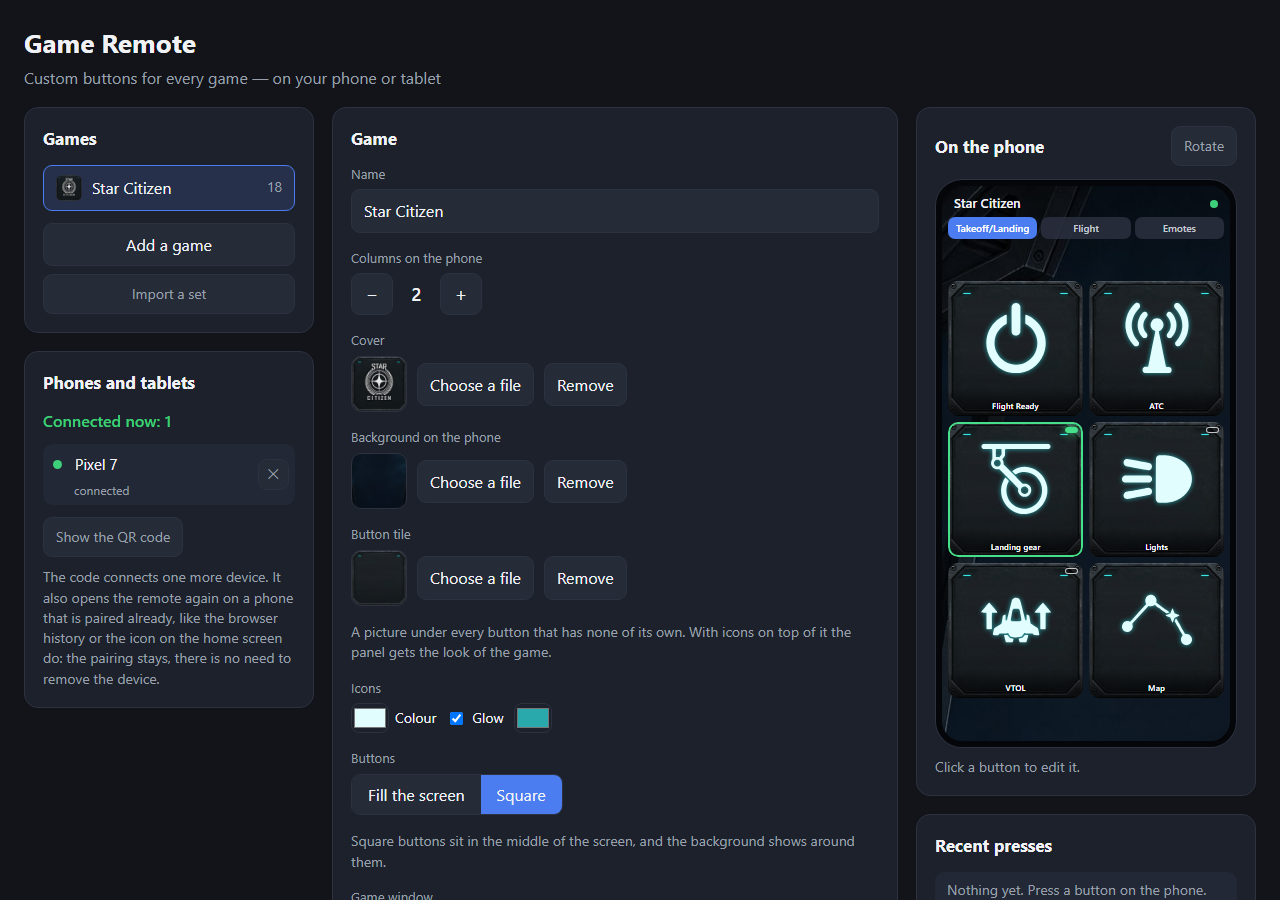
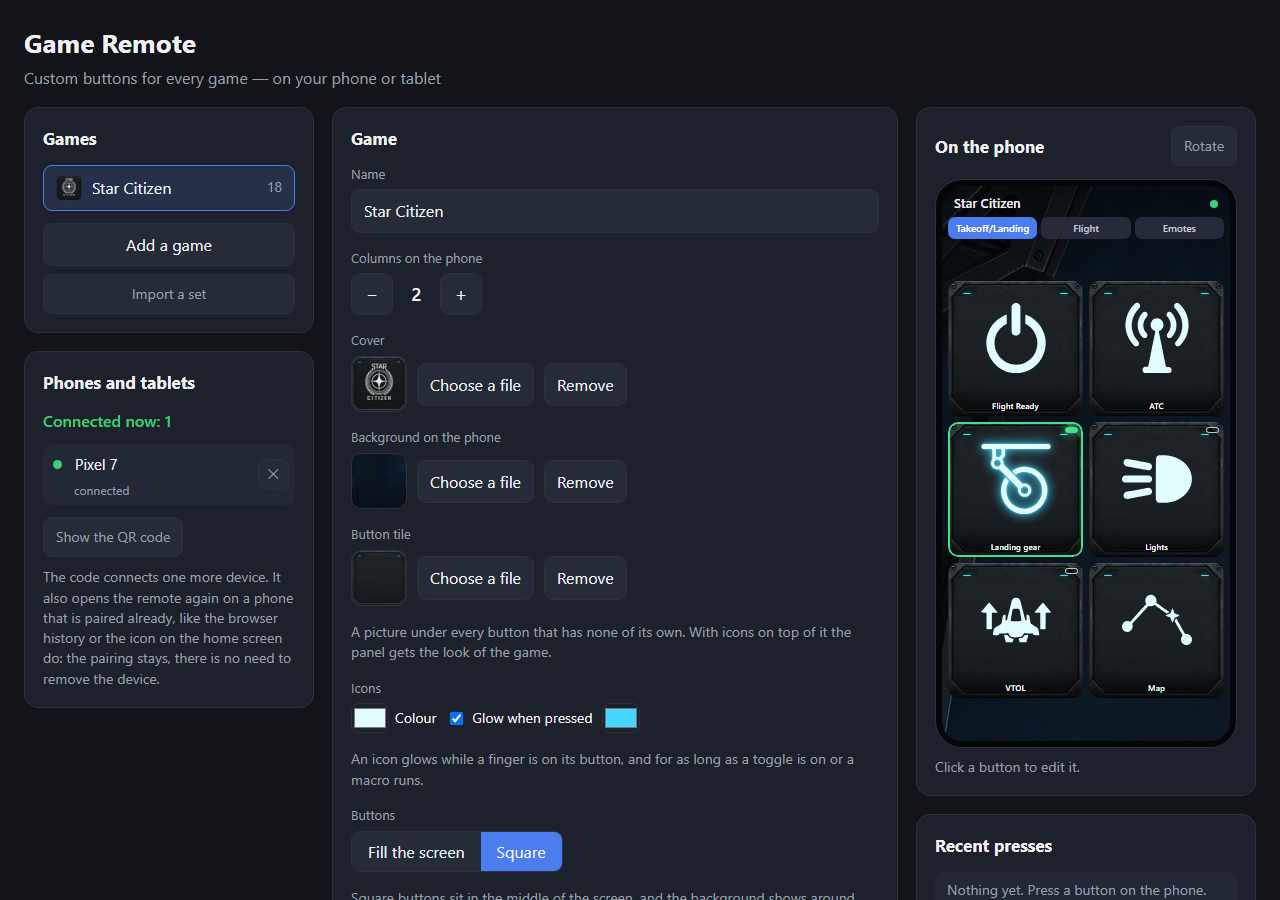
A sign glows while its button does something, not all the time
In 0.11.0 the glow was an ornament: every sign of a game had it at rest. A
pressed button was made brighter as a whole, as before signs, so its sign
burnt out to white and the glow around it was lost. Seen on a real phone it
read the wrong way round: everything glows but the button one touches.

Now a sign does not glow at rest. It glows while a finger is on its button,
and for as long as its toggle is on or its macro runs. Such a button is no
longer made brighter as a whole. A button without a sign, and any button of
a game without a glow, answers a finger as it did.

The glow has two layers, a close one and a wide one, to show at arm's
length. The ready-made Star Citizen panel glows in a brighter colour: the
dark one was matched to the faint halo of its old pictures and is too quiet
for a sign that says "this button is on".

The editor calls the box "Glow when pressed" and says under it when a sign
glows; the guide and sets/README.md say the same. The format of the file is
as it was.

diff --git a/tests/browser/check.js b/tests/browser/check.js
@@ -70,6 +70,22 @@ function killServer() {
   server = null;
 }
 
+// What a button and its sign look like while a finger is on the button: the
+// filters the page gives to the two. The class is what a touch gives; the look
+// changes smoothly, so it is read when the change is over, and the button is
+// let go and comes to rest before anything else looks at it.
+async function pressedLook(button) {
+  await button.evaluate((node) => node.classList.add('down'));
+  await sleep(200);
+  const look = await button.evaluate((node) => ({
+    button: getComputedStyle(node).filter,
+    sign: node.querySelector('.sign') ? getComputedStyle(node.querySelector('.sign')).filter : '',
+  }));
+  await button.evaluate((node) => node.classList.remove('down'));
+  await sleep(200);
+  return look;
+}
+
 // Takes a temporary folder away. The program was stopped a moment ago and
 // holds its files for a second yet: Windows refuses then, so the removal is
 // tried again after a pause. (The retries of fs.rmSync itself did not help:
@@ -195,6 +211,16 @@ async function firstRun(browser, ports, phoneOptions, watch) {
         && signs.join() === 'sc-flight-ready,sc-atc,sc-landing-gear,sc-headlights,sc-vtol,sc-starmap';
     }));
     ok('and no picture of its own', (await page.locator('#grid .btn img').count()) === 0);
+    // A sign glows while its button does something, and only then.
+    const glow = (view, grid, id) => view.locator(`${grid} .btn[data-button="${id}"] .sign`).evaluate(
+      (sign) => [getComputedStyle(sign).filter, getComputedStyle(sign.parentElement).filter],
+    );
+    ok('a sign at rest does not glow', (await glow(page, '#grid', 'flight-ready'))[0] === 'none');
+    ok('the sign of a toggle that is on glows', (await glow(page, '#grid', 'landing-gear'))[0].includes('drop-shadow'));
+    ok('and of one that is off does not', (await glow(page, '#grid', 'headlights'))[0] === 'none');
+    const pressed = await pressedLook(page.locator('.btn[data-button="flight-ready"]'));
+    ok('a sign glows in the colour of the game while a finger is on its button, and the button is not bleached for it',
+      pressed.sign.includes('drop-shadow(rgb(70, 215, 255)') && pressed.button === 'none', JSON.stringify(pressed));
     const background = () => page.evaluate(async () => {
       const url = getComputedStyle(document.body).backgroundImage.slice(5, -2);
       const picture = new Image();
@@ -263,10 +289,13 @@ async function firstRun(browser, ports, phoneOptions, watch) {
       && layout.under.every((picture) => picture.includes('/panel-files/star-citizen/tile.jpg'))
       && layout.signs.join() === 'sc-flight-ready,sc-atc,sc-landing-gear,sc-headlights,sc-vtol,sc-starmap',
     JSON.stringify([layout.buttons[0], layout.signs]));
+    ok('the preview lights the sign of the toggle that is on, and no other',
+      (await glow(desk, '#preview', 'landing-gear'))[0].includes('drop-shadow')
+      && (await glow(desk, '#preview', 'flight-ready'))[0] === 'none');
     ok('the editor shows the tile and the colours of the signs of the game',
       (await desk.locator('#tile-thumb.set').count()) === 1
       && (await desk.locator('#sign-color').inputValue()) === '#e2fdfe'
-      && (await desk.locator('#sign-glow').inputValue()) === '#2aa9ad' && await desk.locator('#sign-glow-on').isChecked());
+      && (await desk.locator('#sign-glow').inputValue()) === '#46d7ff' && await desk.locator('#sign-glow-on').isChecked());
     ok('the preview shows the background', await desk.evaluate(() => getComputedStyle(document.getElementById('phone')).backgroundImage.includes('background.jpg')));
     ok('the editor shows the background and the shape', (await desk.locator('#background-thumb.set').count()) === 1
       && (await desk.locator('#shape [data-shape="square"]').getAttribute('aria-pressed')) === 'true');
@@ -385,6 +414,8 @@ async function main() {
   ok('interface follows the browser language', (await page.locator('#status-text').textContent()) === 'На связи');
   ok('demo panel follows the system language', (await page.locator('#panel-name').textContent()) === 'Демо');
   ok('PC counts the phone', (await status()).phones === 1);
+  const plainLook = await pressedLook(page.locator('#grid .btn').first());
+  ok('a plain button grows brighter under a finger', plainLook.button === 'brightness(1.35)', JSON.stringify(plainLook));
   await shot(page, 'phone-portrait');
 
   // Real multi-touch through the DevTools protocol. touchStart adds fingers,
@@ -987,7 +1018,7 @@ async function main() {
     return game.sign_color === '#dcfaff' && game.sign_glow === '#46d7ff';
   }));
   ok('the colour of the glow has a name for who cannot see it',
-    (await desk.locator('#sign-glow').getAttribute('aria-label')) === 'Свечение');
+    (await desk.locator('#sign-glow').getAttribute('aria-label')) === 'Свечение при нажатии');
   // Another game does not inherit the glow of the one that was shown before it.
   await setColor('#sign-glow', '#ff0000');
   await until(async () => (await stored('game')).sign_glow === '#ff0000');
@@ -999,6 +1030,12 @@ async function main() {
   ok('and the game shows its own again', (await desk.locator('#sign-glow').inputValue()) === '#ff0000');
   await setColor('#sign-glow', '#46d7ff');
   await until(async () => (await stored('game')).sign_glow === '#46d7ff');
+  // The game has a glow now, and its buttons no signs yet: such a button has
+  // nothing to glow with, so it still answers a finger by growing brighter.
+  await until(() => page.locator('#grid.glow').count());
+  const signlessLook = await pressedLook(page.locator('#grid .btn').first());
+  ok('a button without a sign grows brighter under a finger also in a game with a glow',
+    signlessLook.button === 'brightness(1.35)', JSON.stringify(signlessLook));
 
   // The first button gets a sign of the library: found by a word, in either language.
   await desk.locator('#button-list li').first().click();
@@ -1095,9 +1132,9 @@ async function main() {
     await until(async () => (await drawn(view, grid)).filter((button) => button.sign).length === 2);
     const buttons = await drawn(view, grid);
     const [library, own] = [buttons[0], buttons.find((button) => button.picture)];
-    ok(`${name} draws a sign of the library in the colour of the panel, with its glow`,
+    ok(`${name} draws a sign of the library in the colour of the panel, without a glow while it rests`,
       library.sign.includes('/shared/signs/power.svg') && library.color === 'rgb(220, 250, 255)'
-      && library.glow.includes('drop-shadow') && library.above, JSON.stringify(library));
+      && library.glow === 'none' && library.above, JSON.stringify(library));
     ok(`${name} lays the whole tile under the button that has no picture`,
       library.tile && library.whole && !own.tile, JSON.stringify([library, own]));
     ok(`${name} paints the sign: a shape, not a square and not nothing`, await painted(view, grid));

diff --git a/src/game_remote/web/shared/panel-view.css b/src/game_remote/web/shared/panel-view.css
@@ -70,7 +70,7 @@
 }
 /* The sign of a button, above its name: about half of the button, as the
    pictures of the ready-made set have it. */
-.btn .sign { position: absolute; inset: 11% 14% 27%; pointer-events: none; }
+.btn .sign { position: absolute; inset: 11% 14% 27%; pointer-events: none; transition: filter 80ms; }
 /* The shape of a sign, wherever it is shown: of the picture --sign only the
    outline is taken, and it is filled with the colour a panel names, or else
    with the colour of the text around it. */
@@ -80,8 +80,18 @@
   -webkit-mask: var(--sign) center / contain no-repeat;
   mask: var(--sign) center / contain no-repeat;
 }
-/* The glow grows with the letters of the button, which grow with the panel. */
-.panel-grid.glow .btn .sign { filter: drop-shadow(0 0 0.25em var(--sign-glow)); }
+/* A sign lights up while its button does something: a finger is on it, what
+   it switches is on, or its macro runs. At rest it does not glow, so the glow
+   tells which button it is. It grows with the letters of the button, which
+   grow with the panel; two layers, a close one and a wide one, make it show
+   on a phone held at arm's length. */
+.panel-grid.glow .btn.down .sign,
+.panel-grid.glow .btn[aria-pressed="true"] .sign {
+  filter: drop-shadow(0 0 0.15em var(--sign-glow)) drop-shadow(0 0 0.45em var(--sign-glow));
+}
+/* Such a button is not made brighter as a whole when it is pressed: its sign
+   would burn out to white, and the glow around it would be lost. */
+.panel-grid.glow .btn.has-sign.down { filter: none; }
 /* A button without a name gives its whole face to the sign. */
 .btn:has(.label:empty) .sign { inset: 14%; }
 .btn.has-image .label,

diff --git a/src/game_remote/web/shared/i18n.js b/src/game_remote/web/shared/i18n.js
@@ -161,7 +161,8 @@ const TEXTS = {
     'editor.tileHint': 'A picture under every button that has none of its own. With icons on top of it the panel gets the look of the game.',
     'editor.signColors': 'Icons',
     'editor.signColor': 'Colour',
-    'editor.signGlow': 'Glow',
+    'editor.signGlow': 'Glow when pressed',
+    'editor.signGlowHint': 'An icon glows while a finger is on its button, and for as long as a toggle is on or a macro runs.',
     'editor.sign': 'Icon',
     'editor.chooseSign': 'Choose an icon',
     'editor.ownSign': 'Own file',
@@ -337,7 +338,8 @@ const TEXTS = {
     'editor.tileHint': 'Картинка под каждой кнопкой, у которой нет своей. Вместе со значками она даёт панели вид игры.',
     'editor.signColors': 'Значки',
     'editor.signColor': 'Цвет',
-    'editor.signGlow': 'Свечение',
+    'editor.signGlow': 'Свечение при нажатии',
+    'editor.signGlowHint': 'Значок светится, пока палец на кнопке, а у переключателя и макроса — всё время, пока они включены.',
     'editor.sign': 'Значок',
     'editor.chooseSign': 'Выбрать значок',
     'editor.ownSign': 'Свой файл',

diff --git a/src/game_remote/web/editor/index.html b/src/game_remote/web/editor/index.html
@@ -99,6 +99,7 @@
             <label><input id="sign-glow-on" type="checkbox"> <span data-i18n="editor.signGlow"></span></label>
             <input id="sign-glow" type="color" disabled>
           </div>
+          <p class="hint" data-i18n="editor.signGlowHint"></p>
         </div>
         <div class="field"><span data-i18n="editor.shape"></span>
           <div class="segmented" id="shape">

diff --git a/src/game_remote/panels.py b/src/game_remote/panels.py
@@ -258,8 +258,9 @@ class Panel(BaseModel):
     # Picture under every button that has none of its own; a file in the panel
     # folder. Without it such a button shows its colour.
     tile: str | None = Field(default=None, pattern=IMAGE_PATTERN)
-    # The colour the signs of the buttons are drawn in, and of the glow around
-    # them. Without the first they are white, without the second they do not glow.
+    # The colour the signs of the buttons are drawn in, and the colour a sign
+    # glows in while its button is pressed, its toggle is on or its macro runs.
+    # Without the first the signs are white, without the second they never glow.
     sign_color: str | None = Field(default=None, pattern=r"^#[0-9a-fA-F]{6}$")
     sign_glow: str | None = Field(default=None, pattern=r"^#[0-9a-fA-F]{6}$")
     # fill: the buttons share the whole screen. square: they stay square and

diff --git a/tests/test_panels.py b/tests/test_panels.py
@@ -93,7 +93,7 @@ def test_first_start_installs_the_ready_made_panel_with_its_pictures(tmp_path):
     assert public["shape"] == "square"
     assert public["background"].split("?")[0] == f"/panel-files/{SAMPLE_ID}/background.jpg"
     assert public["tile"].split("?")[0] == f"/panel-files/{SAMPLE_ID}/tile.jpg"
-    assert (public["sign_color"], public["sign_glow"]) == ("#e2fdfe", "#2aa9ad")
+    assert (public["sign_color"], public["sign_glow"]) == ("#e2fdfe", "#46d7ff")
     assert public["buttons"][0]["sign"] == "/shared/signs/sc-flight-ready.svg"
     assert sorted(p.name for p in (tmp_path / "panels").iterdir()) == [SAMPLE_ID]
 

diff --git a/docs/guide.md b/docs/guide.md
@@ -79,7 +79,7 @@ python tools/smoke_test.py dist/GameRemote.exe
 
 «Макрос» нажимает несколько клавиш подряд от одного касания. Вместо одного сочетания у такой кнопки список шагов: щёлкните по шагу и запишите его клавиши, как у обычной кнопки. У шага можно задать, сколько миллисекунд держать клавиши и сколько ждать перед следующим шагом. Шагов может быть до 20, а весь макрос длится не дольше 30 секунд. Пока макрос идёт, кнопка на телефоне светится; второе касание останавливает его. Макрос работает только у игры, которой задано окно, и только пока это окно активно: если вы переключились в другое окно или телефон потерял связь, макрос прерывается, а его клавиши отпускаются. Быстро остановить макрос можно ещё двумя способами: заблокировать телефон или свернуть страницу пульта — либо нажать «Отпустить все клавиши» на странице ПК.
 
-У игры можно задать обложку: она видна в списке игр на телефоне. «Фон на телефоне» кладёт картинку под кнопки. «Плитка кнопок» — картинка под каждой кнопкой, у которой нет своей; рядом задаются цвет значков и их свечение. Одна плитка и значки дают всей панели вид игры: готовая панель Star Citizen собрана именно так. Цвет кнопки под непрозрачной плиткой не виден. Переключатель «Кнопки» выбирает их форму: «На весь экран» растягивает кнопки по сетке, «Квадратные» ставит квадратные кнопки в середину экрана, и вокруг них виден фон. Там же задаётся окно игры: запустите игру, нажмите «Выбрать окно» и выберите её в списке открытых окон. После этого кнопки работают, только пока активно окно этой программы, и нажатие не попадёт в чат или браузер. Телефон сам открывает такую игру, когда вы переключаетесь в её окно на ПК: он отзывается тремя короткими вибрациями и долю секунды не принимает касания, чтобы палец не нажал кнопку новой панели по ошибке. Другую игру на телефоне по-прежнему можно выбрать вручную, и она останется на экране, пока на ПК снова не сменится окно. Без привязки клавиши идут в то окно, которое активно. Язык выбирается внизу страницы. В режиме «Авто» редактор и каждый телефон используют язык своего браузера, а выбранный язык становится общим для всех устройств.
+У игры можно задать обложку: она видна в списке игр на телефоне. «Фон на телефоне» кладёт картинку под кнопки. «Плитка кнопок» — картинка под каждой кнопкой, у которой нет своей; рядом задаются цвет значков и цвет, которым значок светится, пока его кнопка нажата или включена. Одна плитка и значки дают всей панели вид игры: готовая панель Star Citizen собрана именно так. Цвет кнопки под непрозрачной плиткой не виден. Переключатель «Кнопки» выбирает их форму: «На весь экран» растягивает кнопки по сетке, «Квадратные» ставит квадратные кнопки в середину экрана, и вокруг них виден фон. Там же задаётся окно игры: запустите игру, нажмите «Выбрать окно» и выберите её в списке открытых окон. После этого кнопки работают, только пока активно окно этой программы, и нажатие не попадёт в чат или браузер. Телефон сам открывает такую игру, когда вы переключаетесь в её окно на ПК: он отзывается тремя короткими вибрациями и долю секунды не принимает касания, чтобы палец не нажал кнопку новой панели по ошибке. Другую игру на телефоне по-прежнему можно выбрать вручную, и она останется на экране, пока на ПК снова не сменится окно. Без привязки клавиши идут в то окно, которое активно. Язык выбирается внизу страницы. В режиме «Авто» редактор и каждый телефон используют язык своего браузера, а выбранный язык становится общим для всех устройств.
 
 Сохранять ничего не нужно: изменения записываются сами, и открытая на телефоне панель обновляется сразу. Удалённая игра не стирается, а переносится в `%LOCALAPPDATA%\GameRemote\trash`.
 
@@ -135,7 +135,7 @@ python tools/smoke_test.py dist/GameRemote.exe
 | `background` | Поле панели. Фон под кнопками на телефоне: имя файла в папке панели |
 | `tile` | Поле панели. Плитка: картинка под каждой кнопкой, у которой нет своей (`image`). Имя файла в папке панели; плитка растягивается по кнопке целиком |
 | `sign_color` | Поле панели. Цвет значков в виде `#rrggbb`. Без него значки белые |
-| `sign_glow` | Поле панели. Цвет свечения вокруг значков. Без него свечения нет |
+| `sign_glow` | Поле панели. Цвет, которым значок светится, пока палец на кнопке, переключатель включён или макрос идёт. Без него значки не светятся |
 | `shape` | Поле панели. `fill` — кнопки растянуты на весь экран (по умолчанию). `square` — квадратные кнопки в середине экрана, все помещаются без прокрутки |
 | `screens` | Поле панели, необязательно. Названия экранов, от одного до восьми, каждое до 24 знаков: `"screens": ["Полёт", "Бой"]`. Без него все кнопки на одном экране |
 | `screen` | Поле кнопки. Номер её экрана в списке `screens`, считая с нуля. По умолчанию 0, то есть первый экран |

diff --git a/docs/guide.en.md b/docs/guide.en.md
@@ -79,7 +79,7 @@ The page on the PC is the editor. The list of games is on the left, the buttons 
 
 "Macro" presses several keys one after another at one touch. In place of the one shortcut such a button has a list of steps: click a step and record its keys like those of any button. A step can say for how many milliseconds its keys are held and how long to wait before the next step. There can be up to 20 steps, and the whole macro takes no longer than 30 seconds. While a macro runs its button on the phone is lit; a second touch stops it. A macro works only for a game that has a window set, and only while that window is active: when you switch to another window or the phone loses the connection, the macro stops and its keys are let go. There are two more ways to stop a macro quickly: lock the phone or leave the page of the remote, or press "Release all keys" on the PC page.
 
-A game can have a cover: it shows in the list of games on the phone. "Background on the phone" puts a picture under the buttons. "Button tile" is a picture under every button that has none of its own; the colour of the icons and their glow are set next to it. One tile and icons give the whole panel the look of a game: the ready-made Star Citizen panel is built so. The colour of a button does not show under a tile that is not transparent. The switch "Buttons" chooses their shape: "Fill the screen" stretches the buttons over the grid, "Square" puts square buttons in the middle of the screen, and the background shows around them. The window of the game is set in the same place: start the game, press "Choose a window" and choose it in the list of open windows. After that the buttons work only while a window of this program is active, and a press does not land in a chat or a browser. The phone opens such a game by itself when you switch to its window on the PC: it answers with three short pulses and takes no touches for a fraction of a second, so that a finger does not press a button of the new panel by mistake. Another game can still be chosen on the phone by hand, and it stays on the screen until the window on the PC changes again. Without that, the keys go to whatever window is active. The language is chosen at the bottom of the page. In the "Auto" mode the editor and every phone use the language of their own browser, and a chosen language becomes the language of all devices.
+A game can have a cover: it shows in the list of games on the phone. "Background on the phone" puts a picture under the buttons. "Button tile" is a picture under every button that has none of its own; the colour of the icons and the colour an icon glows in while its button is pressed or on are set next to it. One tile and icons give the whole panel the look of a game: the ready-made Star Citizen panel is built so. The colour of a button does not show under a tile that is not transparent. The switch "Buttons" chooses their shape: "Fill the screen" stretches the buttons over the grid, "Square" puts square buttons in the middle of the screen, and the background shows around them. The window of the game is set in the same place: start the game, press "Choose a window" and choose it in the list of open windows. After that the buttons work only while a window of this program is active, and a press does not land in a chat or a browser. The phone opens such a game by itself when you switch to its window on the PC: it answers with three short pulses and takes no touches for a fraction of a second, so that a finger does not press a button of the new panel by mistake. Another game can still be chosen on the phone by hand, and it stays on the screen until the window on the PC changes again. Without that, the keys go to whatever window is active. The language is chosen at the bottom of the page. In the "Auto" mode the editor and every phone use the language of their own browser, and a chosen language becomes the language of all devices.
 
 There is nothing to save: changes are written by themselves, and a panel that is open on a phone updates at once. A deleted game is not erased, it is moved to `%LOCALAPPDATA%\GameRemote\trash`.
 
@@ -135,7 +135,7 @@ An example, `panels\x4\panel.json`:
 | `background` | A field of the panel. The background under the buttons on the phone: the name of a file in the folder of the panel |
 | `tile` | A field of the panel. The tile: a picture under every button that has none of its own (`image`). The name of a file in the folder of the panel; the tile is stretched over the whole button |
 | `sign_color` | A field of the panel. The colour of the icons as `#rrggbb`. Without it the icons are white |
-| `sign_glow` | A field of the panel. The colour of the glow around the icons. Without it there is no glow |
+| `sign_glow` | A field of the panel. The colour an icon glows in while a finger is on its button, its toggle is on or its macro runs. Without it the icons do not glow |
 | `shape` | A field of the panel. `fill` stretches the buttons over the whole screen (the default). `square` puts square buttons in the middle of the screen, and all of them fit without scrolling |
 | `screens` | A field of the panel, optional. The names of the screens, from one to eight, each up to 24 characters: `"screens": ["Flight", "Combat"]`. Without it all buttons are on one screen |
 | `screen` | A field of a button. The number of its screen in the list `screens`, counted from zero. 0 by default, which is the first screen |

diff --git a/PLAN.md b/PLAN.md
@@ -82,6 +82,7 @@
 - Все 18 значков набора Star Citizen входят в библиотеку отдельной группой «Star Citizen»: `tools/trace_sign.py` обводит значок с картинки набора в один контур. Их имена начинаются с `sc-`, и идут они под лицензией программы; об этом сказано в `NOTICE` рядом с библиотекой.
 - Свой значок — PNG или WebP с прозрачным фоном: программа берёт из него только форму. SVG не принимаем, чтобы не проверять его на вредное содержимое.
 - Цвет значков один на игру. Цвет кнопки остаётся цветом её фона. Отдельный цвет значка у кнопки не делаем, пока не понадобится.
+- Свечение значка — признак состояния, а не украшение (решено после 0.11.0 по наблюдению с настоящего телефона). В покое значок не светится; он светится, пока палец на кнопке, переключатель включён или макрос идёт. В 0.11.0 светились все значки сразу, а нажатая кнопка, наоборот, белела и теряла ореол. Такую кнопку программа больше не делает ярче целиком.
 - Встроенных тем нет: значки на цветных кнопках полезны и без плитки.
 - Библиотека привязана к номеру формата: новые значки в будущей версии — новый номер. Иначе старая версия получит набор с неизвестным ей значком и не сможет внятно отказать.
 - Образец Star Citizen переведён: плитка и 18 значков группы «Star Citizen». Выглядит он как прежде, а картинок у кнопок больше нет. Плитку без значка делает `tools/make_sample_assets.py` из тех же восемнадцати исходников в `assets`: значок светлый, поэтому самое тёмное из восемнадцати значений точки — это плитка; в середине, где свечения всех значков накладываются, тон берётся с чистых краёв поля. Значки обведены с тех же исходников.

diff --git a/sets/README.md b/sets/README.md
@@ -99,7 +99,7 @@ A set does not need a picture for every button. One tile and the icons of the pr
 
 - `"tile": "tile.jpg"` is the picture that lies under every button: its frame and its background. It is stretched over the button, so draw it without a sign in the middle.
 - `"sign": "power"` on a button is an icon the program ships. There are more than three hundred of them; their names show in the window of the editor where an icon is chosen and in [`index.json`](../src/game_remote/web/shared/signs/index.json).
-- `"sign_color"` and `"sign_glow"` of the panel are the colour of the icons and of the glow around them.
+- `"sign_color"` of the panel is the colour of the icons, and `"sign_glow"` the colour an icon glows in while its button is pressed, its toggle is on or its macro runs. At rest an icon does not glow.
 - An icon of your own is a PNG or WebP with a transparent background, named in `"sign"` like a picture. Only its shape is taken.
 
 Such a set says `"format": 3`, which the editor writes by itself, and is read by version 0.11.0 and newer. The Star Citizen set is built so: one tile and eighteen icons.
